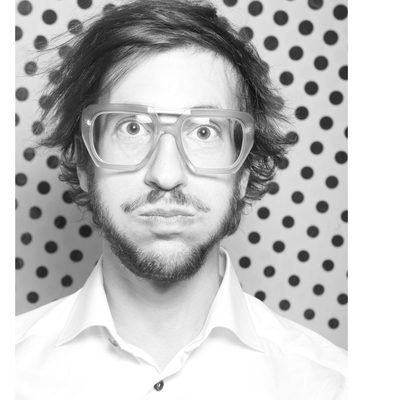
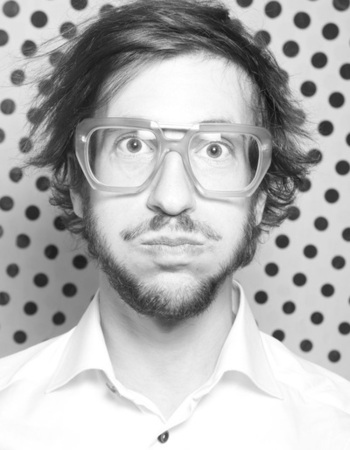
Build website

diff --git a/author/jordan-weiss/index.html b/author/jordan-weiss/index.html
@@ -543,6 +543,9 @@
     <div id="profile">
 
       
+      
+      <img class="avatar avatar-circle" src="/author/jordan-weiss/avatar_hu7f7cd94b14f5fa2d820c06087fc5669c_44246_270x270_fill_q90_lanczos_center.jpg" alt="Jordan Weiss">
+      
 
       <div class="portrait-title">
         <h2>Jordan Weiss</h2>

diff --git a/index.html b/index.html
@@ -606,6 +606,9 @@
     <div id="profile">
 
       
+      
+      <img class="avatar avatar-circle" src="/author/jordan-weiss/avatar_hu7f7cd94b14f5fa2d820c06087fc5669c_44246_270x270_fill_q90_lanczos_center.jpg" alt="Jordan Weiss">
+      
 
       <div class="portrait-title">
         <h2>Jordan Weiss</h2>
